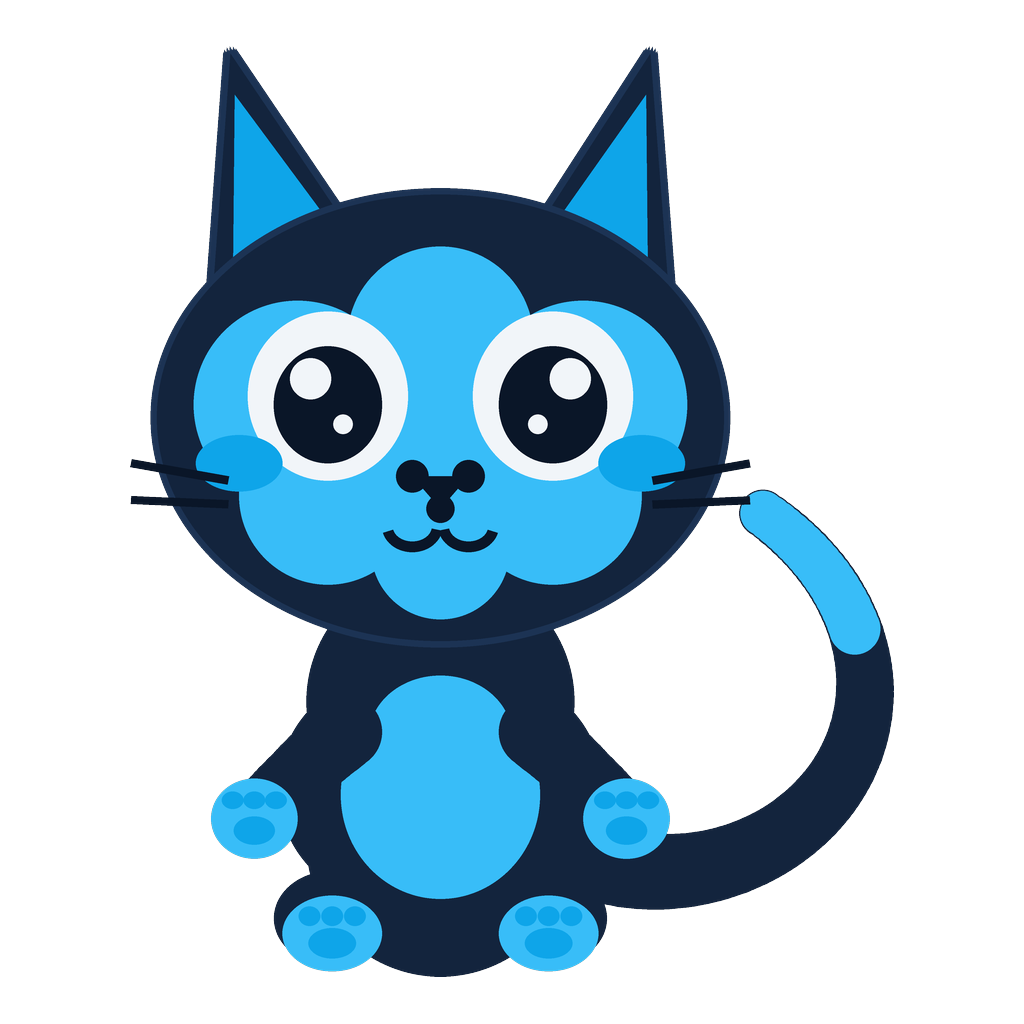
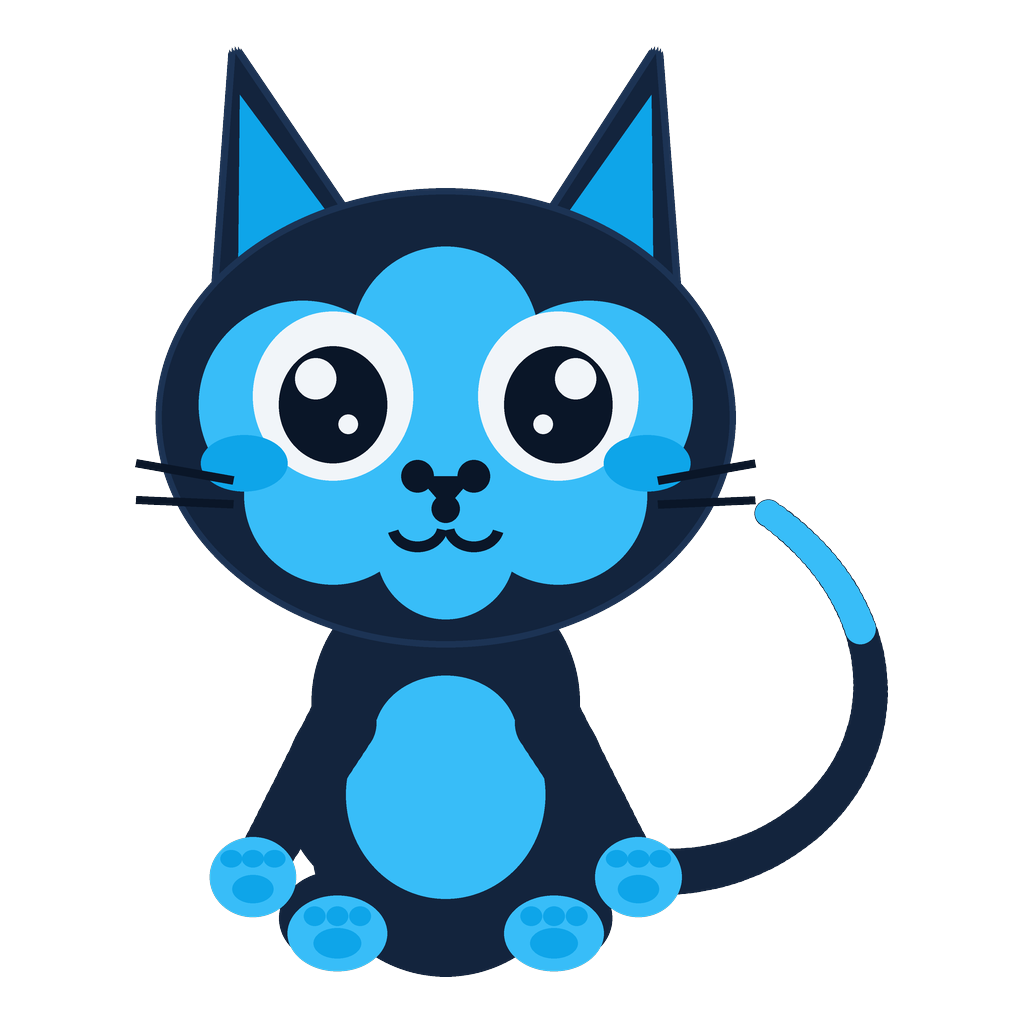
Mascot: paws clear of the torso, tail proportional to the limbs
The front paws were sitting level with the torso widest point, so 14px of
each one was buried inside the body outline and they read as part of the
torso rather than as paws beside it. Measured rather than eyeballed: the
torso half-width peaks at 150 around y=786 and narrows below that, so the
hands now hang lower where there is room, and the arms drop steeply
instead of reaching out sideways. Verified clear by 18px.

The tail was never rescaled when everything else was slimmed, leaving it
fatter at the base than the arms it hangs beside. It is thinner than an
arm now and tapers to a finer tip.

diff --git a/scripts/make_mascot.py b/scripts/make_mascot.py
@@ -93,7 +93,10 @@ def draw_tail(d):
         rad = 90 + 210 * t
         cx = 660 + rad * math.cos(ang)
         cy = 740 - rad * math.sin(ang) * 0.80
-        pts.append((cx, cy, 42 - 20 * t))
+        # Thinner than an arm at the base, tapering to a fine tip. Left at
+        # its original weight while the arms and torso were slimmed, it
+        # ended up fatter than the limbs it hangs beside.
+        pts.append((cx, cy, 26 - 13 * t))
     for cx, cy, r in pts:
         ell(d, cx, cy, r, r, NAVY)
     for cx, cy, r in pts[-20:]:      # sky tip, matching the paws
@@ -139,18 +142,23 @@ def draw_body(d):
     # Thin. At the old thickness the arm was as fat as the torso is deep, so
     # the two merged into one dark mass with paws stuck on the outside and no
     # limb readable at all.
+    # The paw has to clear the torso outline entirely. The torso is widest
+    # at y=786 (half-width 150) and narrows below that, so the hand hangs
+    # LOW — level with the widest point it was buried 14px deep and read as
+    # part of the body rather than a paw resting beside it. The arm drops
+    # steeply rather than reaching out sideways.
     for sx in (-1, 1):
-        shoulder_x = 512 + sx * 88
-        hand_x = 512 + sx * 172
+        shoulder_x = 512 + sx * 96
+        hand_x = 512 + sx * 178
         for i in range(21):
             t = i / 20
             cx = shoulder_x + (hand_x - shoulder_x) * t
-            cy = 734 + 76 * t
-            ell(d, cx, cy, 34 - 7 * t, 34 - 7 * t, NAVY)
-        ell(d, hand_x, 814, 40, 37, SKY)                       # paw
-        ell(d, hand_x, 825, 19, 13, SKY_DEEP)                  # palm pad
+            cy = 726 + 142 * t
+            ell(d, cx, cy, 32 - 9 * t, 32 - 9 * t, NAVY)
+        ell(d, hand_x, 868, 40, 37, SKY)                       # paw
+        ell(d, hand_x, 879, 19, 13, SKY_DEEP)                  # palm pad
         for f in (-1, 0, 1):                                   # toe beans
-            ell(d, hand_x + f * 20, 797, 10, 8, SKY_DEEP)
+            ell(d, hand_x + f * 20, 851, 10, 8, SKY_DEEP)
 
 
 # ---------------------------------------------------------------- head
